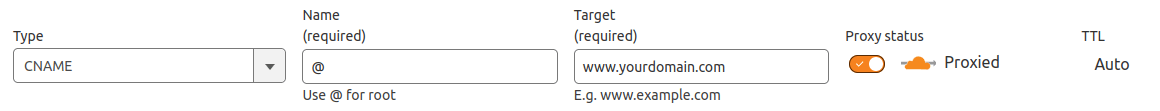
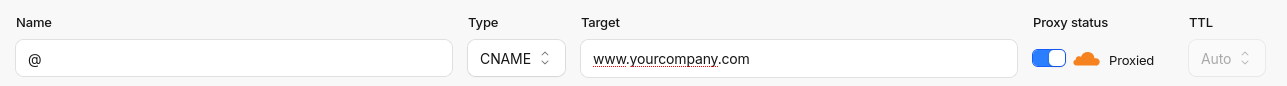
[IMP] domain_names: Cloudflare proxying
The existing Cloudflare instructions are specifically for customers that
want to use it to redirect their naked domain, but not use any other
Cloudflare feature like DDoS protection. This is confusing to customers
that do want to use it.

If the user is already using Cloudflare, making use of its protection is
a sensible default. It should be disabled only if the user explicitly
does not want it, or for diagnostic purposes if they suspect it's
blocking certain traffic.

The instructions direct the user to reduce the SSL security level to
"Full" instead of "Full (strict)" or "Automatic". This is unnecessary
and raises questions from security-conscious customers.

A potential reason why the "Full" setting was used is that if a user is
using Cloudflare proxying and their other settings are too restrictive,
it can block the HTTP-01 ACME challenge Let's Encrypt uses to create and
renew certificates. If a certificate has expired as a result of
that, dropping from "Full (strict)" to "Full" allows the customer to
keep using the database at the cost of reduced security.

The proper solution in that case is to explicitly allow the HTTP-01 ACME
calls. There appear to be multiple ways in which the calls could be
blocked and how those could be bypassed, so I've left the explanation of
how to do so generic. I expect that users for which this topic would be
relevant are going to be more advanced ones.

If a customer is using a new free account, the calls will work by
[…]

diff --git a/content/applications/websites/website/configuration/domain_names.rst b/content/applications/websites/website/configuration/domain_names.rst
@@ -253,8 +253,8 @@ redirect a naked domain with a secure HTTPS connection. If you encounter any iss
 
 .. _domain-name/naked/cloudflare:
 
-Using Cloudflare to secure and redirect a naked domain
-~~~~~~~~~~~~~~~~~~~~~~~~~~~~~~~~~~~~~~~~~~~~~~~~~~~~~~
+Using Cloudflare to secure and redirect a domain
+~~~~~~~~~~~~~~~~~~~~~~~~~~~~~~~~~~~~~~~~~~~~~~~~
 
 #. `Sign up and log in to Cloudflare <https://dash.cloudflare.com/sign-up>`_.
 #. Enter your domain name on `Cloudflare's dashboard <https://dash.cloudflare.com/login>`_ and
@@ -273,13 +273,13 @@ Using Cloudflare to secure and redirect a naked domain
    .. image:: domain_names/cloudflare-cname-www.png
       :alt: Adding a CNAME DNS record to Cloudflare to redirect a naked domain to a www subdomain
 
-#. Add another second CNAME record to redirect the `www` subdomain (e.g., `www.yourdomain.com`) to
+#. Add a second CNAME record to redirect the `www` subdomain (e.g., `www.yourdomain.com`) to
    your database address (e.g., `mycompany.odoo.com`) using the following configuration:
 
    - :guilabel:`Type`: CNAME
-   - :guilabel:`Name`: e.g., `www.yourdomain.com`
+   - :guilabel:`Name`: `www`
    - :guilabel:`Target`: e.g., `mycompany.odoo.com`
-   - :guilabel:`Proxy status`: DNS only
+   - :guilabel:`Proxy status`: Proxied (or toggle to DNS-only to disable Cloudflare's protection services)
 
    .. image:: domain_names/cloudflare-cname-db.png
       :alt: Adding a CNAME DNS record to Cloudflare to redirect a www subdomain to an Odoo database
@@ -306,10 +306,11 @@ Using Cloudflare to secure and redirect a naked domain
    .. image:: domain_names/cloudflare-redirect-rule.png
       :alt: Defining a Cloudflare redirect rule to create a permanent redirect (301)
 
-#. Go to :guilabel:`SSL/TLS` and set the encryption mode to :guilabel:`Full`.
-
-   .. image:: domain_names/cloudflare-encryption.png
-      :alt: Setting the encryption mode to full on Cloudflare
+#. By default, a new free Cloudflare account will allow the
+   `HTTP-01 ACME challenge <https://letsencrypt.org/docs/challenge-types/#http-01-challenge>`_ that's required to
+   generate a SSL certificate for the domain. If more restrictive settings are in use, ensure calls to
+   `http://www.yourdomain.com/.well-known/acme-challenge/<TOKEN>` are allowed, for example by defining a custom security
+   rule.
 
 .. _domain-name/db-map:
 
